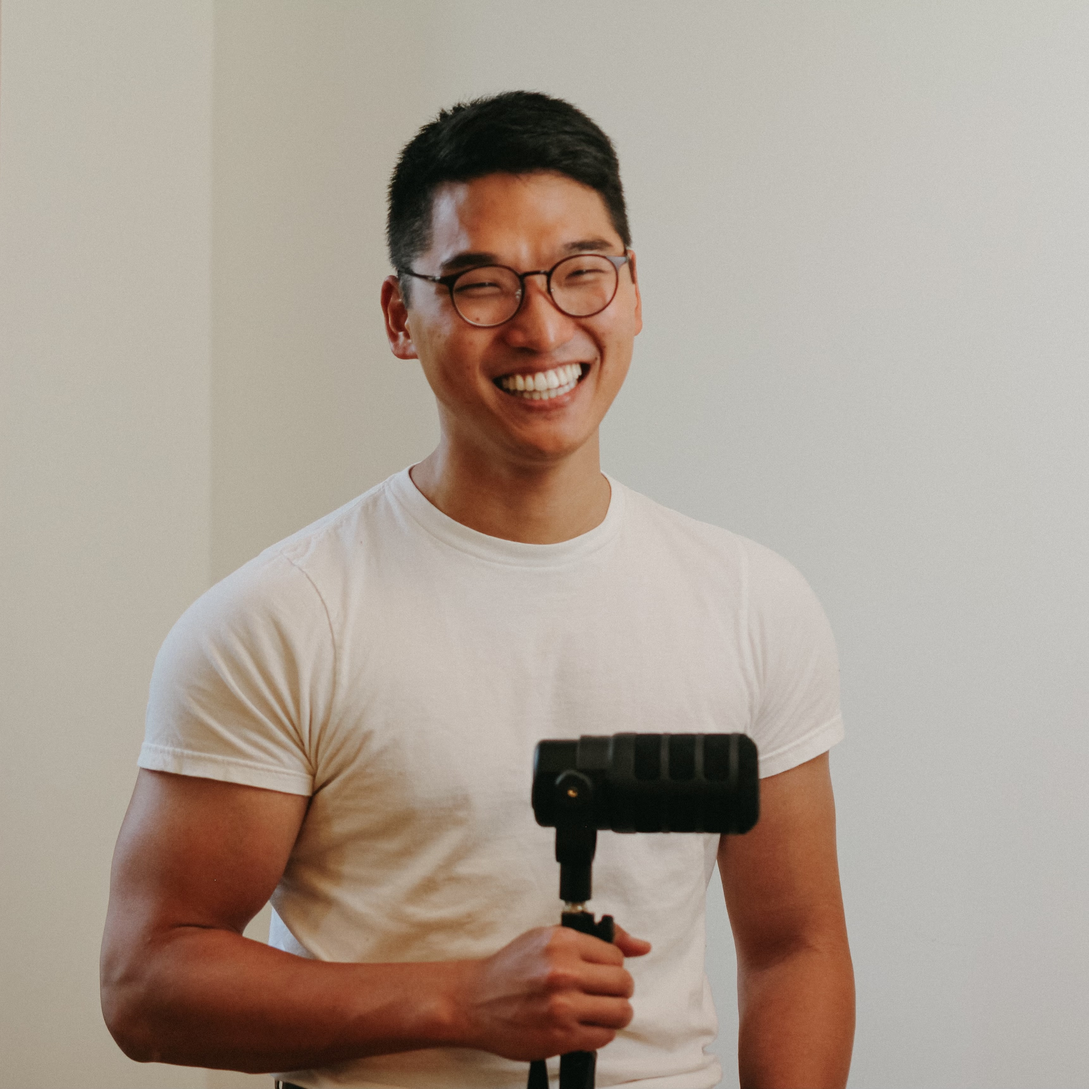
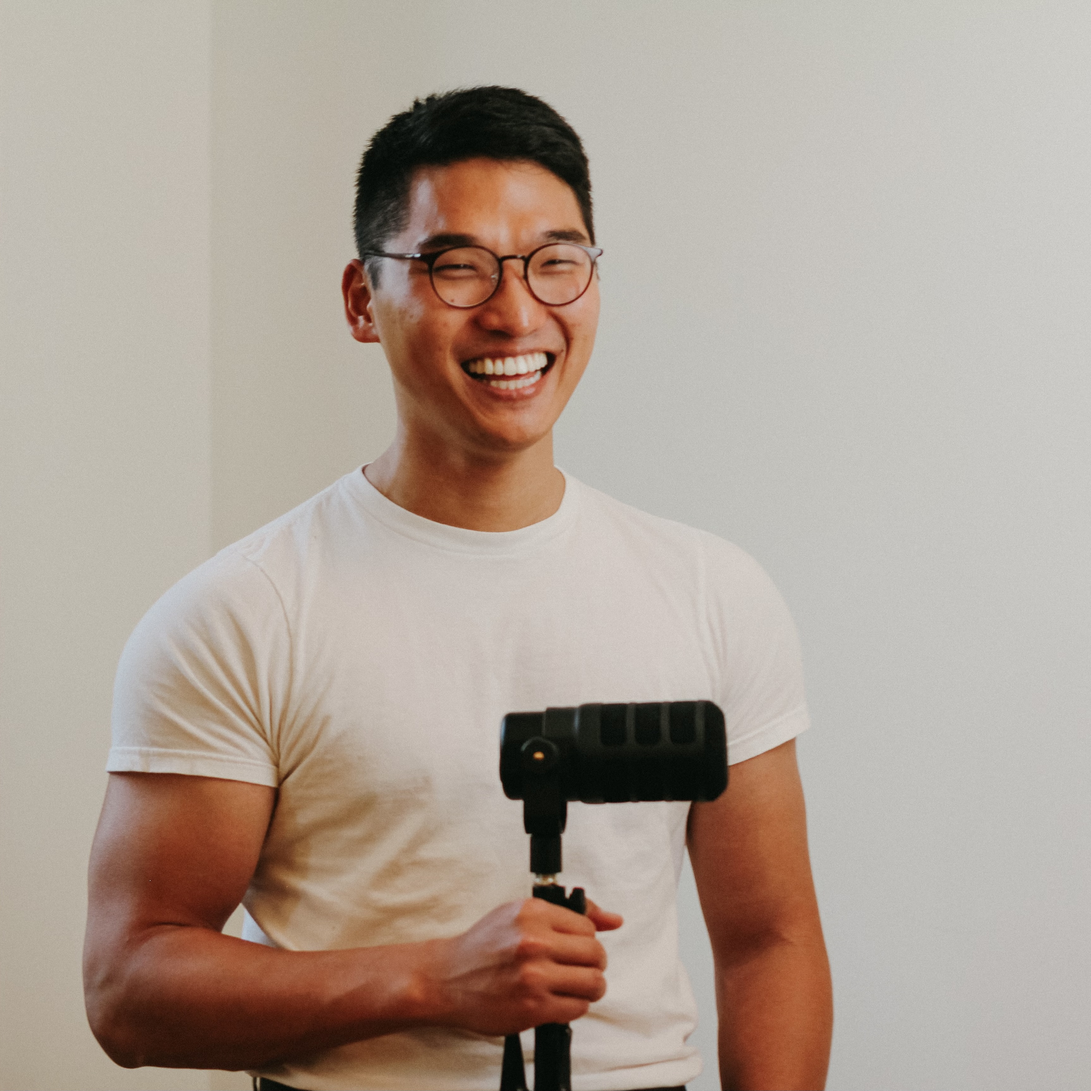
added better pixel dimensions & returned to compressed img

Changed region(s): [[0.0622, 0.0622, 0.808, 1.0]]

diff --git a/src/pages/index.tsx b/src/pages/index.tsx
@@ -12,8 +12,8 @@ export default function Index() {
           className="profile-photo"
           src={profilePhoto}
           alt="jin young standing in a forest in jeju, south korea"
-          width={200}
-          height={200}
+          width={313}
+          height={313}
         />
       </div>
       <main id="biography">
